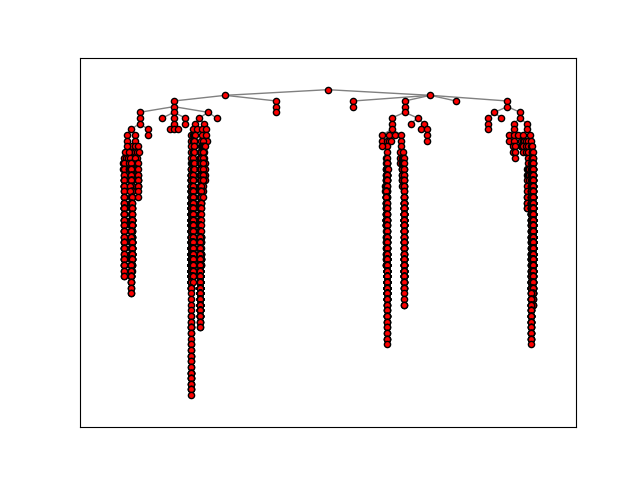
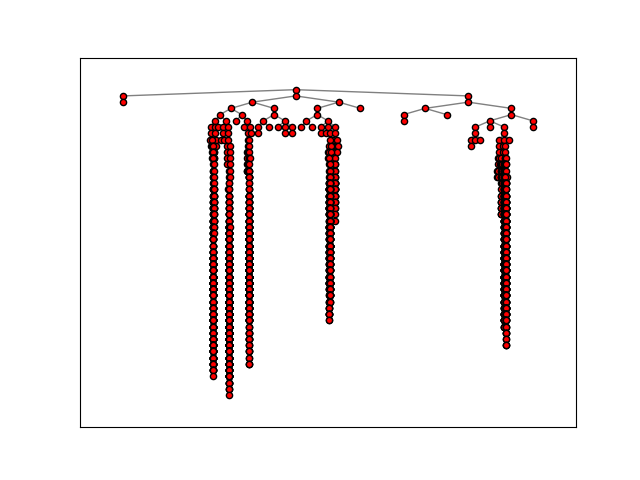
scifair stuff

Changed region(s): [[0.1875, 0.1562, 0.8438, 0.8438]]

diff --git a/cellular_automata/partitioning.py b/cellular_automata/partitioning.py
@@ -198,11 +198,33 @@ def build_cqm(G, k, root_node):
             if i == root_node or j == root_node:
                 same_partition_as_root.append(G.nodes[i]['weight'] * v[i][p] + G.nodes[j]['weight'] * v[j][p] - 2 * G.nodes[i]['weight'] * v[i][p] * v[j][p])
 
+        
+    # Define a large penalty value to discourage constraint violations
+    penalty_value = 10000  # This value should be large enough to make violating the constraint undesirable
+
+    # Initialize a penalty term
+    penalty_terms = []
+
+    for i, j in G.edges:
+        for p in partitions:
+            # For each edge and partition, calculate a term that penalizes violating the contiguity constraint
+            # Note: This is a conceptual representation. Actual implementation might need adjustments.
+            penalty_term = penalty_value * (v[i][p] + v[j][p] - 2 * v[i][p] * v[j][p])
+            penalty_terms.append(penalty_term)
+
+
+        
+    min_edges2 = []
+    for i, j in G.edges:
+        for p in partitions:
+            # Since it's a tree, simply counting edges between partitions
+            min_edges2.append(v[i][p] * (1 - v[j][p]) + v[j][p] * (1 - v[i][p]))
+
     # Combine objectives with a balancing factor alpha
     alpha = 500000.0  # Adjust alpha to balance the importance of objectives
     #print(min_edges)
     #print(same_partition_as_root)
-    cqm.set_objective(sum(min_edges))
+    #cqm.set_objective(sum(min_edges))
     #print("Objective function components:")
     #print(f"Min edges component (sum): {sum(min_edges)}")
     #print(f"Same partition as root component (sum): {alpha * sum(same_partition_as_root)}")
@@ -237,9 +259,13 @@ def build_cqm(G, k, root_node):
     alpha1 = 500.0  # Adjust as needed to balance the importance of objectives
     alpha2 = 500.0  # Adjust as needed to balance the importance of objectives
     
-    total_objective = alpha1 * quicksum(min_interpartition_edges) + alpha2 * quicksum(min_intrapartition_edges_root)
+    total_objective = quicksum(min_edges2)+alpha1 * quicksum(min_interpartition_edges) + alpha2 * quicksum(min_intrapartition_edges_root)
     
-    cqm.set_objective(total_objective)
+    # Adjust your total objective to include the penalty terms
+    total_objective_with_penalty = total_objective + quicksum(penalty_terms)
+
+    # Set the objective with penalties
+    cqm.set_objective(total_objective_with_penalty)
 
     return cqm
 
@@ -339,8 +365,42 @@ def visualize_results(G, partitions, soln, root_node):
     for node in G.nodes():
         pos[node] = pos_full[node] + pos_g[node]
 
+    def hierarchy_pos(G, root=None, width=1., vert_gap = 0.2, vert_loc = 0, xcenter = 0.5):
+        if not nx.is_tree(G):
+            raise TypeError('cannot use hierarchy_pos on a graph that is not a tree')
+
+        if root is None:
+            if isinstance(G, nx.DiGraph):
+                root = next(iter(nx.topological_sort(G)))  #allows back compatibility with nx version 1.11
+            else:
+                root = random.choice(list(G.nodes))
+
+        def _hierarchy_pos(G, root, width=1., vert_gap = 0.2, vert_loc = 0, xcenter = 0.5, pos = None, parent = None):
+
+            if pos is None:
+                pos = {root:(xcenter,vert_loc)}
+            else:
+                pos[root] = (xcenter, vert_loc)
+            children = list(G.neighbors(root))
+            if not isinstance(G, nx.DiGraph) and parent is not None:
+                children.remove(parent)  
+            if len(children)!=0:
+                dx = width/len(children) 
+                nextx = xcenter - width/2 - dx/2
+                for child in children:
+                    nextx += dx
+                    pos = _hierarchy_pos(G,child, width = dx, vert_gap = vert_gap, 
+                                        vert_loc = vert_loc-vert_gap, xcenter=nextx,
+                                        pos=pos, parent = root)
+            return pos
+
+                
+        return _hierarchy_pos(G, root, width, vert_gap, vert_loc, xcenter)
+
+    pos = hierarchy_pos(G, root_node)
+    
     # Specify color for the root node
-    node_colors = [15 if node == root_node else soln[node] for node in G.nodes()]
+    node_colors = [soln[node] for node in G.nodes()]
 
     nx.draw_networkx_nodes(G, pos, node_size=40, node_color=node_colors, edgecolors='k')
 
@@ -351,12 +411,9 @@ def visualize_results(G, partitions, soln, root_node):
     nx.draw_networkx_edges(G, pos, edgelist=good_edges, style='solid', edge_color='#7f7f7f')
     nx.draw_networkx_edges(G, pos, edgelist=bad_edges, style='solid', edge_color='k')
 
-    # Save the output image
+    # ChatGPT change this part so that it opens the output graph in new window instead of saving to png
     plt.draw()
-    output_name = 'output_graph.png'
-    plt.savefig(output_name)
-
-    print("\tOutput stored in", output_name)
+    plt.show()
 
 
 @click.command(context_settings=dict(help_option_names=['-h', '--help']))
@@ -374,7 +431,7 @@ def visualize_results(G, partitions, soln, root_node):
               type=click.FloatRange(0, 1), default=0.001, show_default=True)
 @click.option("-e", "--new-edges", help="Set number of edges from new node to existing node in SF graph.",
               default=4, type=click.IntRange(1), show_default=True)
-@click.option("-k", "--k-partition", help="Set number of partitions to divide graph into.", default=8,
+@click.option("-k", "--k-partition", help="Set number of partitions to divide graph into.", default=2,
               type=click.IntRange(2), show_default=True)
 def main(graph, nodes, degree, prob, p_in, p_out, new_edges, k_partition):
     G = rishimonkey[2]

diff --git a/cellular_automata/simulator.py b/cellular_automata/simulator.py
@@ -124,9 +124,9 @@ def main(SIM_LENGTH, input_for, cburns, rawFor):
         fires.append(fire_land_percentage)
 
         next_forest = [["Empty" for x in range(MAP_WIDTH)] for y in range(MAP_HEIGHT)]
-        screen.fill((137,234,123))
-        displayForest(forest)
-        pygame.display.update()
+        #screen.fill((137,234,123))
+        #displayForest(forest)
+        #pygame.display.update()
 
         #Build next forest
         for loc in cburns:
